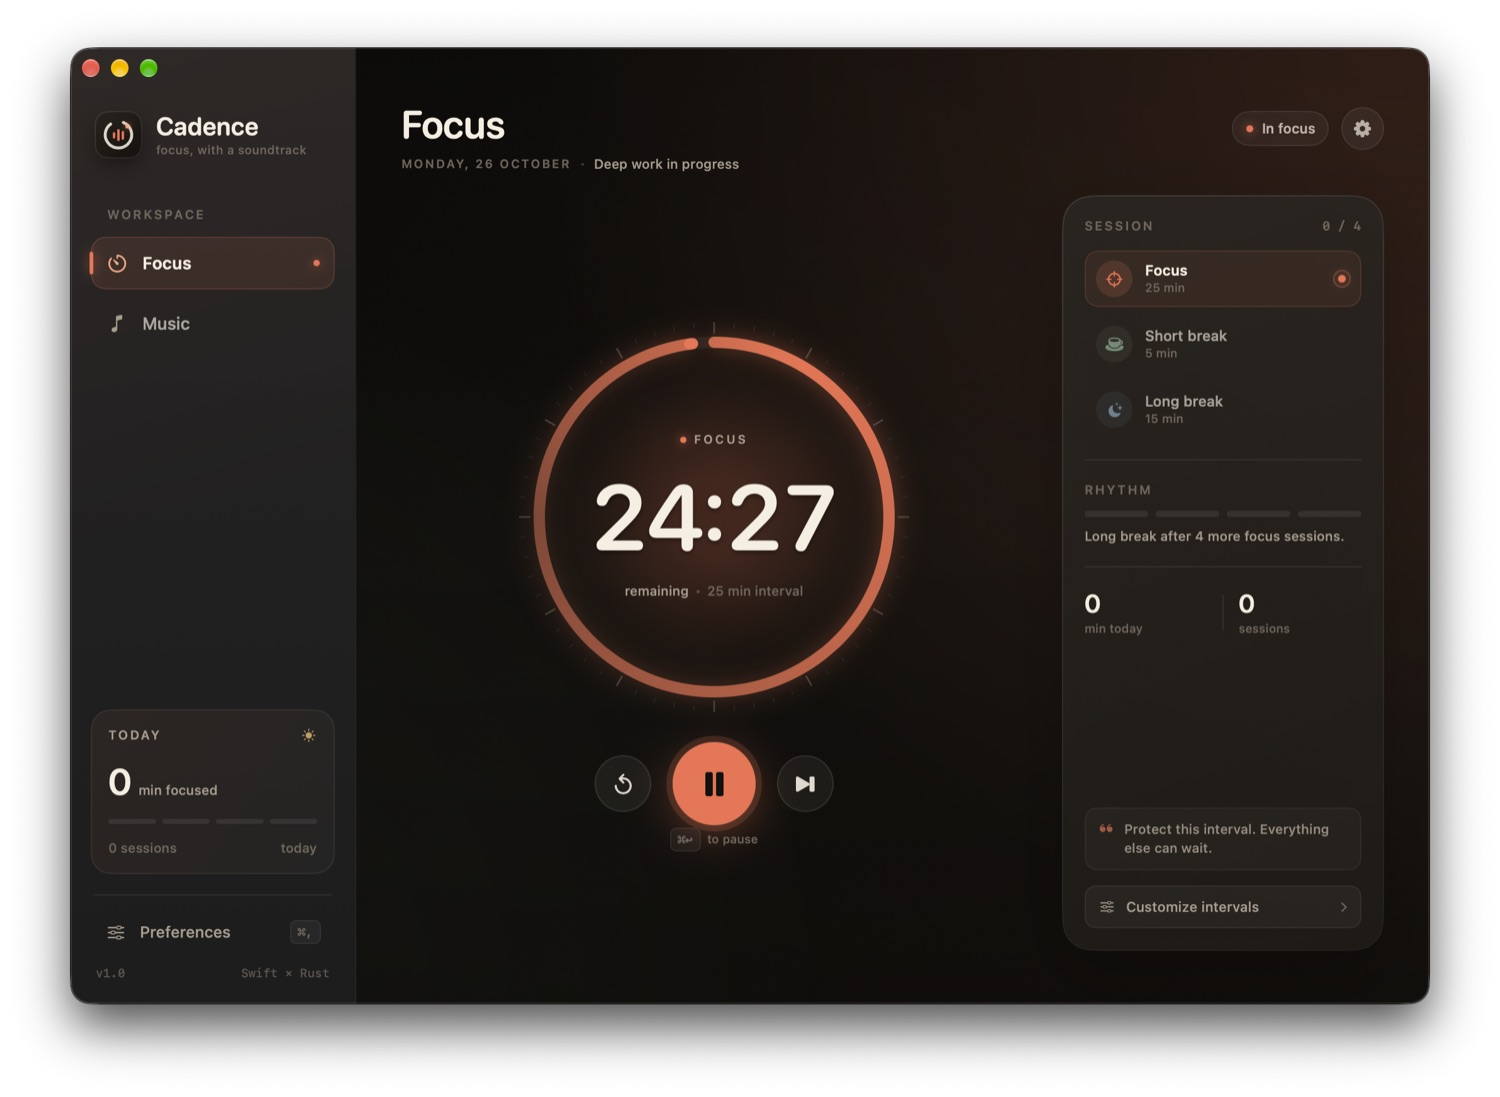
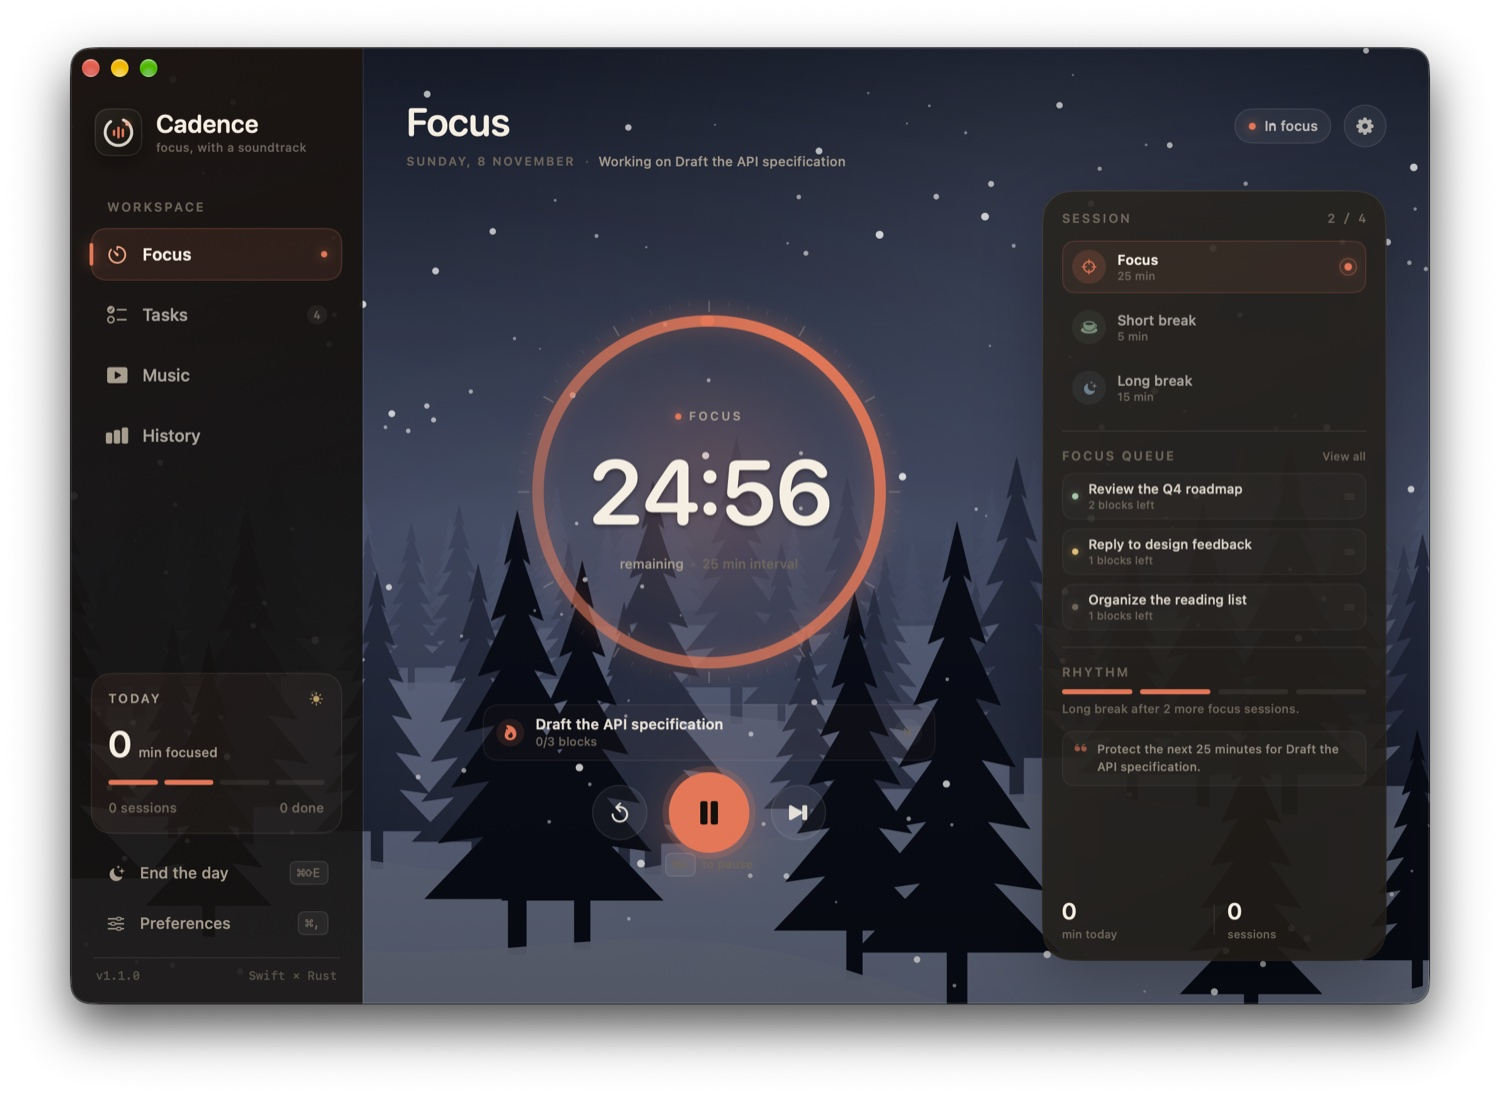
Refresh README and screenshots for v1.1 features (#1)

diff --git a/README.md b/README.md
@@ -78,7 +78,14 @@ If several YouTube tabs are open, Cadence uses the active tab in the front windo
 ## A closer look
 
 <p align="center">
+  <img src="docs/screenshots/tasks.jpg" width="48%" alt="Eisenhower task board and day plan" />
+  <img src="docs/screenshots/history.jpg" width="48%" alt="Focus history" />
+</p>
+<p align="center">
+  <img src="docs/screenshots/intention.jpg" width="48%" alt="Intention check-in with a one-off length" />
   <img src="docs/screenshots/focus-running.jpg" width="48%" alt="A focus interval running" />
+</p>
+<p align="center">
   <img src="docs/screenshots/settings.jpg" width="48%" alt="Cadence preferences" />
 </p>
 
